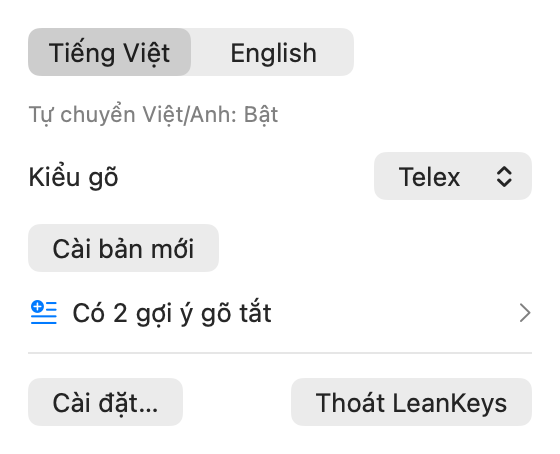
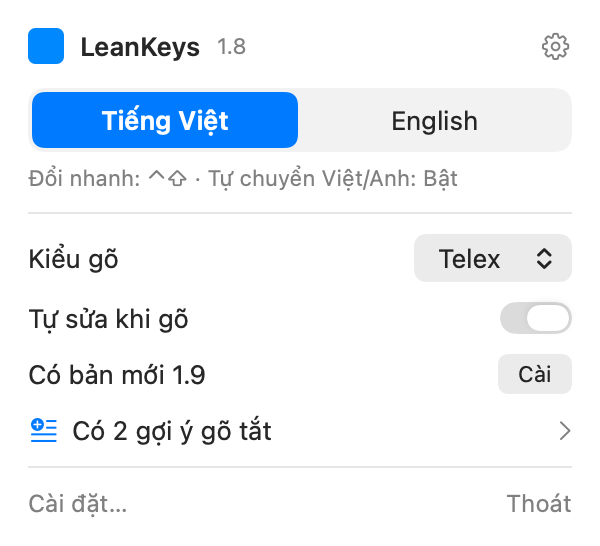
Popover: header with version, large Việt/Anh, rows, light footer; close on outside click

diff --git a/leankeys/LeanKeysKit/UI/StatusPopoverView.swift b/leankeys/LeanKeysKit/UI/StatusPopoverView.swift
@@ -31,6 +31,8 @@ public struct StatusPopoverActions {
     public var setAutoFix: (Bool) -> Void
     /// The version a downloaded update installs, when the updater knows it.
     public var newVersion: () -> String?
+    /// The icon in the header (the app's own icon by default; snapshots pass a fixed one).
+    public var appIcon: () -> NSImage
 
     public init(
         snapshot: @escaping () -> StatusSnapshot,
@@ -52,7 +54,8 @@ public struct StatusPopoverActions {
         toggleShortcut: @escaping () -> String? = { nil },
         autoFix: @escaping () -> Bool = { true },
         setAutoFix: @escaping (Bool) -> Void = { _ in },
-        newVersion: @escaping () -> String? = { nil }
+        newVersion: @escaping () -> String? = { nil },
+        appIcon: @escaping () -> NSImage = { NSImage(named: NSImage.applicationIconName) ?? NSImage() }
     ) {
         self.snapshot = snapshot
         self.method = method
@@ -72,6 +75,7 @@ public struct StatusPopoverActions {
         self.autoFix = autoFix
         self.setAutoFix = setAutoFix
         self.newVersion = newVersion
+        self.appIcon = appIcon
     }
 }
 
@@ -88,6 +92,7 @@ public final class StatusPopoverModel: ObservableObject {
     @Published public private(set) var newVersion: String?
 
     private let actions: StatusPopoverActions
+    var appIcon: NSImage { actions.appIcon() }
     /// Set by the controller so the popover closes before Settings opens.
     var closePopover: () -> Void = {}
 
@@ -209,74 +214,154 @@ public struct StatusPopoverView: View {
         self.model = model
     }
 
+    static let settingsHelp = "Cài đặt"
+    static let autoFixTitle = "Tự sửa khi gõ"
+    static let width: CGFloat = 300
+
     public var body: some View {
-        VStack(alignment: .leading, spacing: 12) {
-            Picker(StatusPopoverView.languagePickerTitle, selection: Binding(
-                get: { model.snapshot.vietnamese },
-                set: { model.choose(vietnamese: $0) }
-            )) {
-                Text("Tiếng Việt").tag(true)
-                Text("English").tag(false)
-            }
-            .pickerStyle(.segmented)
-            .labelsHidden()
+        VStack(alignment: .leading, spacing: 0) {
+            header
+                .padding(.bottom, 12)
 
-            if let autoSwitchLine = model.snapshot.autoSwitchLine {
-                Text(autoSwitchLine)
-                    .font(.system(size: 11))
-                    .foregroundColor(Color(NSColor.secondaryLabelColor))
-                    .lineLimit(1)
-                    .truncationMode(.tail)
-                    .help(model.snapshot.autoSwitchHelp)
-            }
-            if let warningLine = model.snapshot.warningLine {
-                WarningLine(warningLine, help: StatusSnapshot.warningHelp)
-            }
+            LanguageSwitch(vietnamese: model.snapshot.vietnamese) { model.choose(vietnamese: $0) }
 
-            HStack {
-                Text(StatusPopoverView.methodPickerTitle)
-                Spacer()
-                Picker(StatusPopoverView.methodPickerTitle, selection: Binding(
-                    get: { model.method },
-                    set: { model.choose(method: $0) }
-                )) {
-                    Text("Telex").tag(0)
-                    Text("VNI").tag(1)
+            Group {
+                if let warningLine = model.snapshot.warningLine {
+                    WarningLine(warningLine, help: StatusSnapshot.warningHelp)
+                } else if let subLine = model.subLine {
+                    Text(subLine)
+                        .font(.system(size: 11))
+                        .foregroundColor(Color(NSColor.secondaryLabelColor))
+                        .lineLimit(1)
+                        .truncationMode(.tail)
+                        .help(model.snapshot.autoSwitchHelp)
                 }
-                .pickerStyle(.menu)
-                .labelsHidden()
-                .fixedSize()
             }
+            .padding(.top, 6)
 
-            UpdateRowView(phase: model.updatePhase, tap: { model.tapUpdateRow() })
+            Divider().padding(.vertical, 10)
 
-            if let suggestionLine = model.suggestionLine {
-                Button { model.openSuggestions() } label: {
-                    HStack(spacing: 6) {
-                        Image(systemName: "text.badge.plus")
-                            .foregroundColor(.accentColor)
-                        Text(suggestionLine)
-                        Spacer()
-                        Image(systemName: "chevron.right")
-                            .font(.system(size: 11))
-                            .foregroundColor(Color(NSColor.secondaryLabelColor))
+            VStack(alignment: .leading, spacing: 10) {
+                row(StatusPopoverView.methodPickerTitle) {
+                    Picker(StatusPopoverView.methodPickerTitle, selection: Binding(
+                        get: { model.method },
+                        set: { model.choose(method: $0) }
+                    )) {
+                        Text("Telex").tag(0)
+                        Text("VNI").tag(1)
                     }
-                    .contentShape(Rectangle())
+                    .pickerStyle(.menu)
+                    .labelsHidden()
+                    .fixedSize()
                 }
-                .buttonStyle(.plain)
-                .accessibilityLabel(Text(suggestionLine))
+                row(StatusPopoverView.autoFixTitle) {
+                    Toggle(StatusPopoverView.autoFixTitle, isOn: Binding(
+                        get: { model.autoFix },
+                        set: { model.choose(autoFix: $0) }
+                    ))
+                    .toggleStyle(.switch)
+                    .controlSize(.mini)
+                    .labelsHidden()
+                }
+
+                UpdateRowView(phase: model.updatePhase, newVersion: model.newVersion, tap: { model.tapUpdateRow() })
+
+                if let suggestionLine = model.suggestionLine {
+                    Button { model.openSuggestions() } label: {
+                        HStack(spacing: 6) {
+                            Image(systemName: "text.badge.plus")
+                                .foregroundColor(.accentColor)
+                            Text(suggestionLine).font(.system(size: 13))
+                            Spacer()
+                            Image(systemName: "chevron.right")
+                                .font(.system(size: 11))
+                                .foregroundColor(Color(NSColor.secondaryLabelColor))
+                        }
+                        .contentShape(Rectangle())
+                    }
+                    .buttonStyle(.plain)
+                    .accessibilityLabel(Text(suggestionLine))
+                }
             }
 
-            Divider()
+            Divider().padding(.vertical, 10)
 
             HStack {
                 Button("Cài đặt…") { model.openSettings() }
                 Spacer()
-                Button(StatusPopoverView.quitLabel) { model.quit() }
+                Button("Thoát") { model.quit() }
+                    .accessibilityLabel(Text(StatusPopoverView.quitLabel))
             }
+            .buttonStyle(.borderless)
+            .font(.system(size: 12))
+            .foregroundColor(Color(NSColor.secondaryLabelColor))
         }
         .padding(14)
-        .frame(width: 280, alignment: .leading)
+        .frame(width: StatusPopoverView.width, alignment: .leading)
+    }
+
+    /// App icon, name and version; the gear opens Settings.
+    private var header: some View {
+        HStack(spacing: 8) {
+            Image(nsImage: model.appIcon)
+                .resizable()
+                .frame(width: 18, height: 18)
+                .accessibilityHidden(true)
+            Text("LeanKeys").font(.system(size: 13, weight: .semibold))
+            if !model.version.isEmpty {
+                Text(model.version)
+                    .font(.system(size: 11))
+                    .foregroundColor(Color(NSColor.secondaryLabelColor))
+            }
+            Spacer()
+            Button { model.openSettings() } label: {
+                Image(systemName: "gearshape")
+                    .font(.system(size: 13))
+                    .foregroundColor(Color(NSColor.secondaryLabelColor))
+            }
+            .buttonStyle(.borderless)
+            .help(StatusPopoverView.settingsHelp)
+            .accessibilityLabel(Text(StatusPopoverView.settingsHelp))
+        }
+    }
+
+    /// A Control-Center-style row: the title on the left, its control on the right.
+    private func row<Control: View>(_ title: String, @ViewBuilder control: () -> Control) -> some View {
+        HStack {
+            Text(title).font(.system(size: 13))
+            Spacer()
+            control()
+        }
+    }
+}
+
+/// The Việt/Anh choice: two equal halves across the full width, the chosen one filled with the accent colour.
+struct LanguageSwitch: View {
+    let vietnamese: Bool
+    let choose: (Bool) -> Void
+
+    var body: some View {
+        HStack(spacing: 2) {
+            segment("Tiếng Việt", selected: vietnamese) { choose(true) }
+            segment("English", selected: !vietnamese) { choose(false) }
+        }
+        .padding(2)
+        .background(RoundedRectangle(cornerRadius: 8).fill(Color(NSColor.quaternaryLabelColor).opacity(0.5)))
+        .accessibilityElement(children: .contain)
+        .accessibilityLabel(Text(StatusPopoverView.languagePickerTitle))
+    }
+
+    private func segment(_ title: String, selected: Bool, action: @escaping () -> Void) -> some View {
+        Button(action: action) {
+            Text(title)
+                .font(.system(size: 13, weight: selected ? .semibold : .regular))
+                .foregroundColor(selected ? .white : Color(NSColor.labelColor))
+                .frame(maxWidth: .infinity, minHeight: 28)
+                .background(RoundedRectangle(cornerRadius: 6).fill(selected ? Color.accentColor : Color.clear))
+                .contentShape(Rectangle())
+        }
+        .buttonStyle(.plain)
+        .accessibilityAddTraits(selected ? .isSelected : [])
     }
 }
 
@@ -289,6 +374,10 @@ public final class StatusPopoverController: NSObject, NSPopoverDelegate {
     private let model: StatusPopoverModel
     private let popover = NSPopover()
     private var lastClose: Date?
+    /// While the popover is shown: any click in another app closes it (a menu bar app is often not active, so the
+    /// transient behaviour alone can miss it), and Esc closes it. Removed when the popover closes.
+    private var outsideClickMonitor: Any?
+    private var escMonitor: Any?
 
     public init(model: StatusPopoverModel) {
         self.model = model
@@ -320,9 +409,32 @@ public final class StatusPopoverController: NSObject, NSPopoverDelegate {
         guard Self.shouldOpen(lastClose: lastClose, now: Date()) else { return }
         model.reload()
         popover.show(relativeTo: button.bounds, of: button, preferredEdge: .minY)
+        addMonitors()
+    }
+
+    private func addMonitors() {
+        removeMonitors()
+        outsideClickMonitor = NSEvent.addGlobalMonitorForEvents(
+            matching: [.leftMouseDown, .rightMouseDown, .otherMouseDown]
+        ) { [weak self] _ in
+            self?.popover.performClose(nil)
+        }
+        escMonitor = NSEvent.addLocalMonitorForEvents(matching: .keyDown) { [weak self] event in
+            guard let self, self.popover.isShown, Self.closesOnKey(event.keyCode) else { return event }
+            self.popover.performClose(nil)
+            return nil
+        }
+    }
+
+    private func removeMonitors() {
+        if let monitor = outsideClickMonitor { NSEvent.removeMonitor(monitor) }
+        if let monitor = escMonitor { NSEvent.removeMonitor(monitor) }
+        outsideClickMonitor = nil
+        escMonitor = nil
     }
 
     public func popoverDidClose(_ notification: Notification) {
+        removeMonitors()
         lastClose = Date()
         model.popoverDidClose()
     }
@@ -343,18 +455,19 @@ public enum StatusClickRoute: Equatable {
 /// The update row (spec §16.2): a button, or a status line with a spinner or progress bar, and "Thử lại" on failure.
 struct UpdateRowView: View {
     let phase: PopoverUpdateRow.Phase
+    var newVersion: String? = nil
     let tap: () -> Void
 
     var body: some View {
-        let line = PopoverUpdateRow.line(phase)
+        let line = PopoverUpdateRow.line(phase, newVersion: newVersion)
         let button = PopoverUpdateRow.buttonTitle(phase)
         VStack(alignment: .leading, spacing: 6) {
             if let line {
                 HStack(spacing: 6) {
                     icon
                     Text(line)
-                        .font(.system(size: 11))
-                        .foregroundColor(Color(NSColor.secondaryLabelColor))
+                        .font(.system(size: phase == .ready ? 13 : 11))
+                        .foregroundColor(phase == .ready ? Color(NSColor.labelColor) : Color(NSColor.secondaryLabelColor))
                         .lineLimit(1)
                         .truncationMode(.tail)
                         .help(line)

diff --git a/leankeys/Tests/LeanKeysKitTests/UISnapshotTests.swift b/leankeys/Tests/LeanKeysKitTests/UISnapshotTests.swift
@@ -34,14 +34,14 @@ final class UISnapshotTests: XCTestCase {
             let popover = StatusPopoverView(model: StatusPopoverModel(actions: Self.popoverActions(vietnameseOn)))
                 .background(Color(NSColor.windowBackgroundColor))
             try Self.render(
-                popover, width: 280, height: nil, appearance: appearance,
+                popover, width: StatusPopoverView.width, height: nil, appearance: appearance,
                 to: outDir.appendingPathComponent("popover-\(label).png")
             )
 
             let blocked = StatusPopoverView(model: StatusPopoverModel(actions: Self.popoverActions(blockedByOnePassword)))
                 .background(Color(NSColor.windowBackgroundColor))
             try Self.render(
-                blocked, width: 280, height: nil, appearance: appearance,
+                blocked, width: StatusPopoverView.width, height: nil, appearance: appearance,
                 to: outDir.appendingPathComponent("popover-blocked-\(label).png")
             )
 
@@ -49,7 +49,7 @@ final class UISnapshotTests: XCTestCase {
             let withSuggestions = StatusPopoverView(model: StatusPopoverModel(actions: Self.popoverActions(vietnameseOn, suggestions: 2)))
                 .background(Color(NSColor.windowBackgroundColor))
             try Self.render(
-                withSuggestions, width: 280, height: nil, appearance: appearance,
+                withSuggestions, width: StatusPopoverView.width, height: nil, appearance: appearance,
                 to: outDir.appendingPathComponent("popover-suggestions-\(label).png")
             )
 
@@ -64,7 +64,7 @@ final class UISnapshotTests: XCTestCase {
                 let view = StatusPopoverView(model: StatusPopoverModel(actions: Self.popoverActions(vietnameseOn, update: phase)))
                     .background(Color(NSColor.windowBackgroundColor))
                 try Self.render(
-                    view, width: 280, height: nil, appearance: appearance,
+                    view, width: StatusPopoverView.width, height: nil, appearance: appearance,
                     to: outDir.appendingPathComponent("popover-update-\(name)-\(label).png")
                 )
             }
@@ -167,7 +167,11 @@ final class UISnapshotTests: XCTestCase {
             openSettings: {},
             quit: {},
             suggestionCount: { suggestions },
-            updatePhase: update.map { phase in { phase } }
+            updatePhase: update.map { phase in { phase } },
+            version: { "1.8" },
+            toggleShortcut: { "⌃⇧" },
+            newVersion: { "1.9" },
+            appIcon: { logo() }
         )
     }
 

diff --git a/platforms/macos/MenuBar.swift b/platforms/macos/MenuBar.swift
@@ -186,7 +186,7 @@ class MenuBarController: NSObject, NSWindowDelegate {
         let iconView = NSImageView(image: AppMetadata.logo)
         iconView.imageScaling = .scaleProportionallyUpOrDown
 
-        let titleLabel = NSTextField(labelWithString: AppMetadata.name)
+        let titleLabel = NSTextField(labelWithString: "\(AppMetadata.name) \(AppMetadata.version)") // LEANKEYS-HOOK: copy (version in the right-click menu)
         titleLabel.font = .systemFont(ofSize: 13, weight: .semibold)
 
         let subtitle = NSTextField(labelWithString: statusSubtitle)
@@ -444,7 +444,12 @@ class MenuBarController: NSObject, NSWindowDelegate {
             openSuggestions: { ShortcutSuggestionsWindow.show(.shared) },
             updatePhase: { UpdateManager.shared.popoverPhase },
             checkForUpdates: { UpdateManager.shared.checkFromPopover() },
-            popoverClosed: { UpdateManager.shared.popoverClosed() }
+            popoverClosed: { UpdateManager.shared.popoverClosed() },
+            version: { AppMetadata.version },
+            toggleShortcut: { AppState.shared.toggleShortcut.displayParts.joined() },
+            autoFix: { AppState.shared.autoFix },
+            setAutoFix: { AppState.shared.autoFix = $0 },
+            newVersion: { UpdateManager.shared.pendingVersion.isEmpty ? nil : UpdateManager.shared.pendingVersion }
         ))
         // Check, download progress and install show while the popover is open (spec §16).
         NotificationCenter.default.publisher(for: .updateStateChanged)
